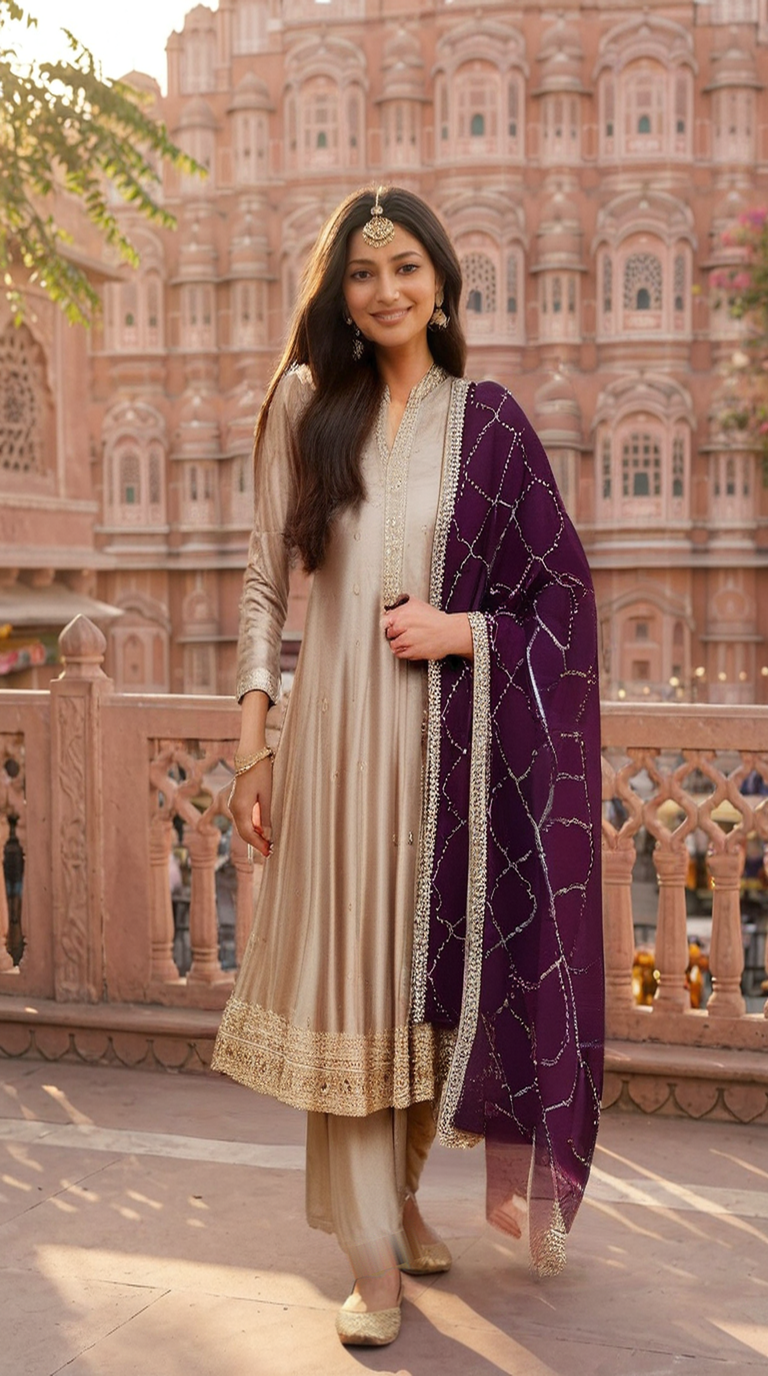
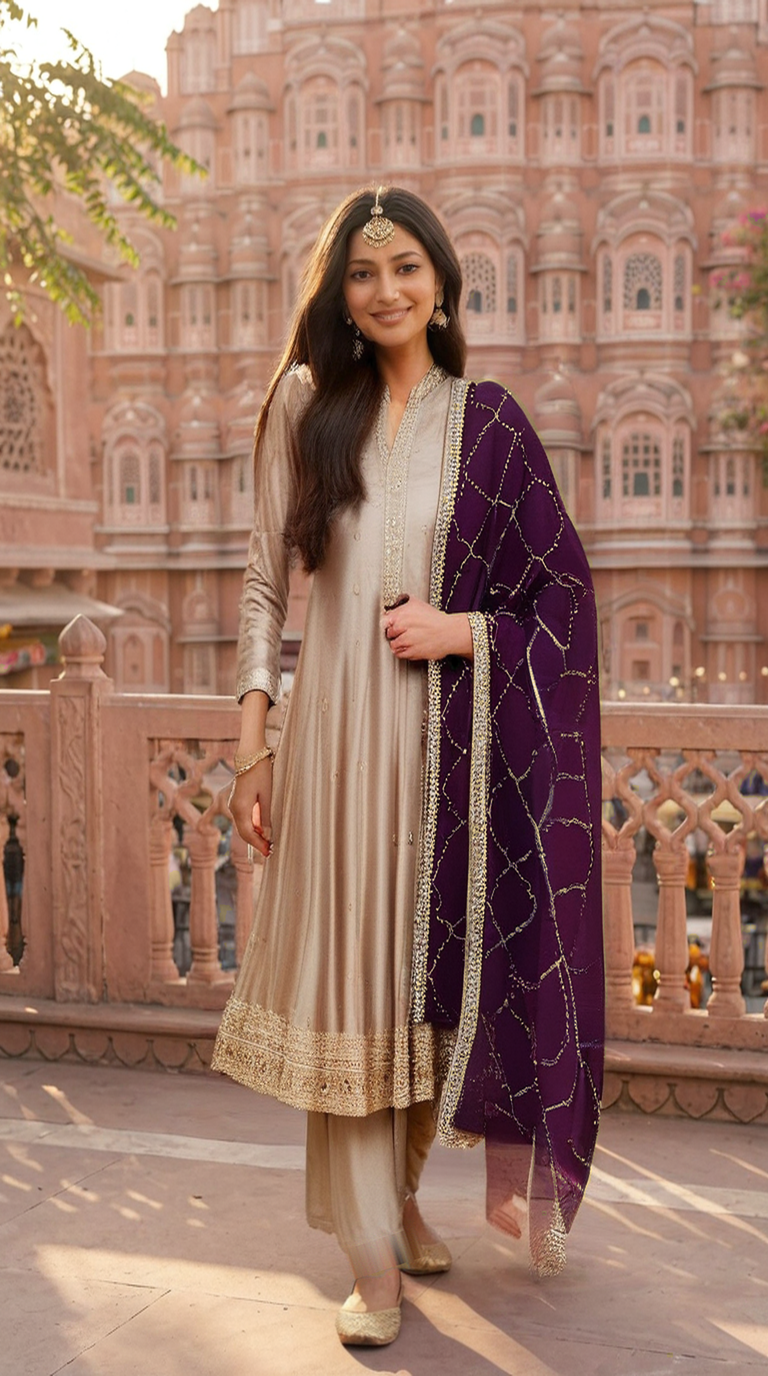
ai-image-gen v4: product-accurate drape (aubergine + gold lattice), clean feet, generator toolkit updated

diff --git a/ai-image-gen/imagegen.py b/ai-image-gen/imagegen.py
@@ -20,7 +20,11 @@ import os, sys, shutil
 from gradio_client import Client, handle_file
 
 SPACE_2509 = "Qwen/Qwen-Image-Edit-2509"   # multi-image (person + product)
-SPACE_SINGLE = "Qwen/Qwen-Image-Edit"      # fallback, single image
+SPACE_SINGLE = "Qwen/Qwen-Image-Edit"      # fallback, single image (240s slot)
+# NOTE: Qwen-2509 endpoint asks a fixed 600s GPU slot (> free-tier max). If it
+# errors "GPU duration larger than maximum", use SPACE_SINGLE or wait for
+# ZeroGPU quota reset (~daily). Gemini alternative: gemini-3-pro-image via
+# generativelanguage.googleapis.com (needs image billing enabled on the key).
 
 DRESS_PROMPT = (
     "Replace the outfit of the girl in the first image with the EXACT outfit shown in the second image (a product photo of a dress). "
@@ -35,7 +39,7 @@ DRESS_PROMPT = (
 
 def generate(person, garment, prompt, out, seed=42, height=1600, width=896):
     token = os.environ.get("HF_TOKEN") or None
-    c = Client(SPACE_2509, hf_token=token, verbose=False)
+    c = Client(SPACE_2509, token=token, verbose=False)
     res = c.predict(
         [
             {"image": handle_file(person), "caption": "the person"},
